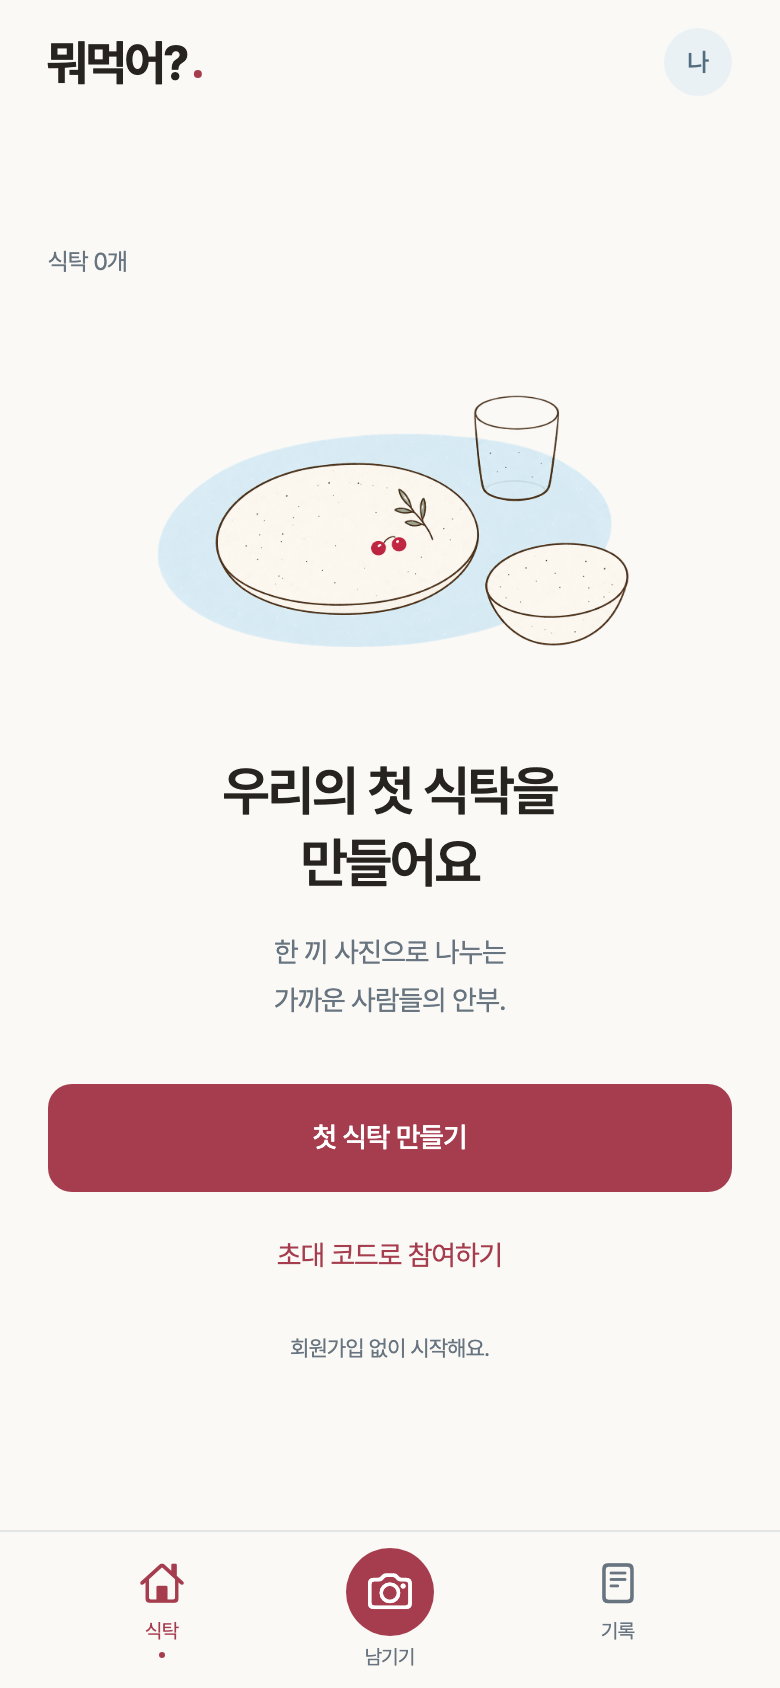
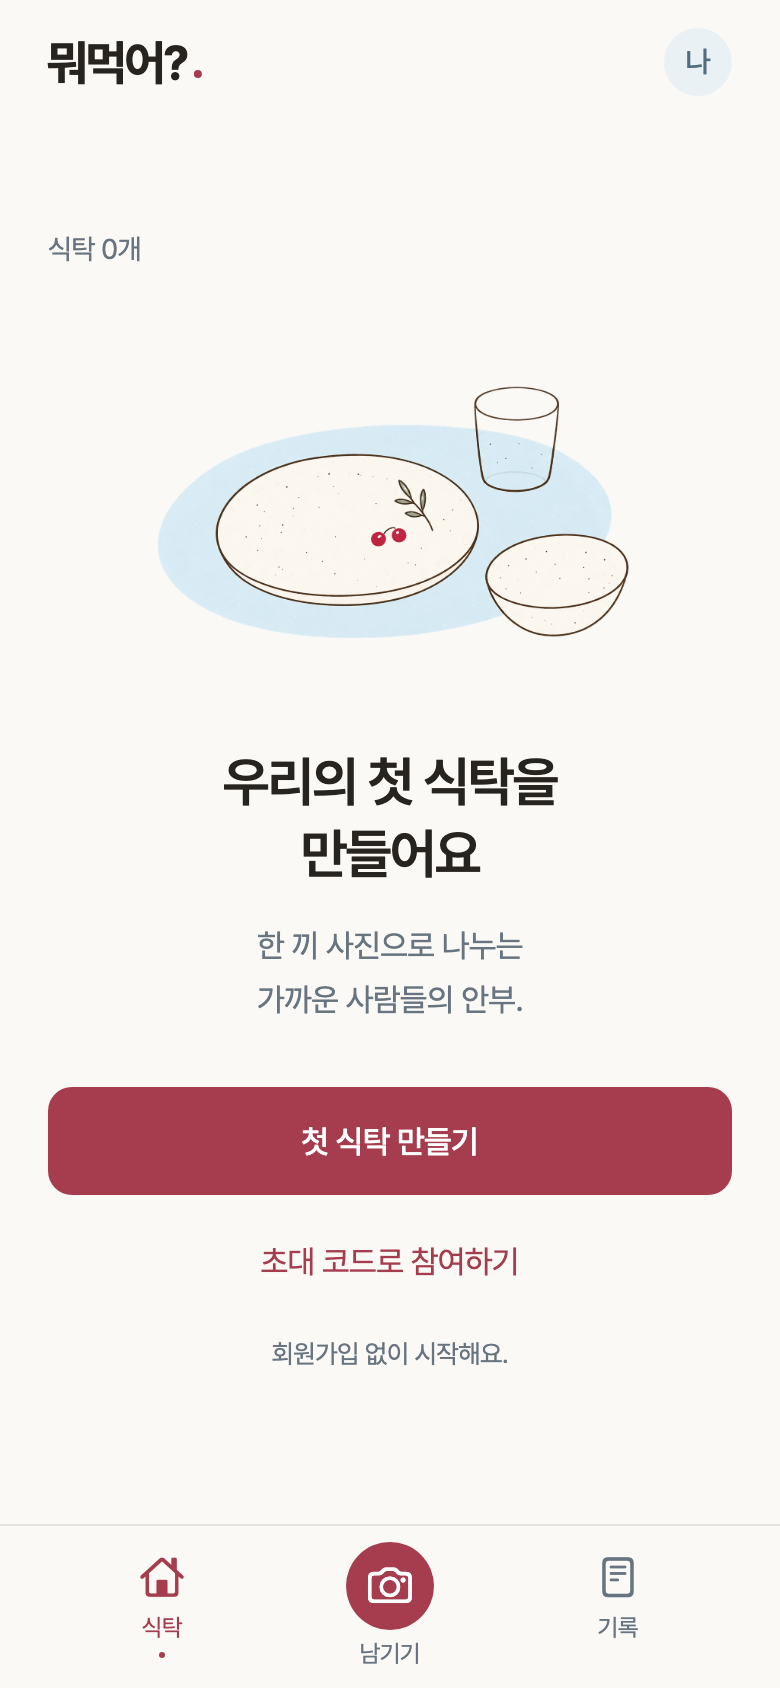
Increase text sizes and refresh Flutter previews for build 11

diff --git a/tool/render_modal_board.swift b/tool/render_modal_board.swift
@@ -28,7 +28,7 @@ for (i, entry) in entries.enumerated() {
     image.draw(in: NSRect(x:x,y:70,width:390,height:844))
     NSGraphicsContext.restoreGraphicsState()
 }
-text("CHERRY MILK  /  실제 앱 화면 렌더링 · Build 8", 45, 25, 13, .medium, color(104,117,128))
+text("CHERRY MILK  /  실제 앱 화면 렌더링 · Build 11", 45, 25, 13, .medium, color(104,117,128))
 NSGraphicsContext.restoreGraphicsState()
 let output = NSBitmapImageRep(cgImage: ctx.makeImage()!).representation(using: .png, properties: [:])!
 try output.write(to: URL(fileURLWithPath: "preview/13-modal-redesign.png"))

diff --git a/lib/main.dart b/lib/main.dart
@@ -87,7 +87,10 @@ class MwomeogeoApp extends StatelessWidget {
         surfaceTintColor: Colors.transparent,
       ),
       textButtonTheme: TextButtonThemeData(
-        style: TextButton.styleFrom(foregroundColor: cherry),
+        style: TextButton.styleFrom(
+          foregroundColor: cherry,
+          textStyle: type(14, weight: FontWeight.w500),
+        ),
       ),
       dividerTheme: const DividerThemeData(color: line, thickness: 1),
       appBarTheme: const AppBarTheme(

diff --git a/lib/design.dart b/lib/design.dart
@@ -26,7 +26,8 @@ TextStyle type(
   double spacing = -.3,
   double height = 1.5,
 }) => TextStyle(
-  fontSize: size <= 16 ? size + 1 : size,
+  fontFamily: 'Pretendard',
+  fontSize: size <= 16 ? size + 2 : size,
   color: color,
   fontWeight: weight,
   letterSpacing: spacing,

diff --git a/README.md b/README.md
@@ -34,7 +34,7 @@ Xcode에서 Runner 타깃 → Signing & Capabilities → Team을 본인 Apple De
 cd ~/Documents/mwomeogeo
 git pull --ff-only
 flutter pub get
-flutter build ipa --build-number=10
+flutter build ipa --build-number=11
 open build/ios/archive/Runner.xcarchive
 ```
 
@@ -84,7 +84,7 @@ python3 tool/configure_ios_firebase.py /파일경로/GoogleService-Info.plist
 
 빌드 10은 끼니 옆 종 버튼으로 같은 식탁에서 알림을 켠 상대에게 밥 안부를 보냅니다. Apple production 푸시 키와 무료 Workers 서버를 연결했고 앱에 운영 주소를 기본 설정했습니다. **내 정보 → 식사 알림 받기**를 켜야 받을 수 있습니다. 새 iPhone 빌드를 설치한 뒤 두 기기에서 실제 수신을 확인해야 합니다. 서버 검증과 확인 절차는 [server/nudges/README.md](server/nudges/README.md)에 있습니다.
 
-빌드 9는 본문·버튼·댓글·작은 안내 글씨를 1pt씩 키웁니다. 16pt 이하의 공통 글꼴 크기에만 적용하고 제목 크기는 유지합니다.
+빌드 11은 본문·버튼·댓글·작은 안내 글씨를 빌드 10보다 1pt 더 키웁니다. 16pt 이하의 공통 글꼴 크기에 총 2pt를 더하며 제목 크기는 유지합니다. 본문·버튼은 16pt, 설명은 14~15pt, 하단 메뉴는 12pt입니다. 별도 크기를 지정하지 않은 텍스트 버튼도 16pt로 통일합니다. 같은 크기를 적용한 실제 Flutter 화면은 `preview/`에 있습니다.
 
 빌드 8은 앱이 직접 표시하는 기록 메뉴, 삭제 확인, 이름 변경, 사진 선택, 식탁/공유 대상 선택과 모든 하단 시트를 공통 디자인으로 통일합니다. 크림색 표면·얇은 테두리·체리색 액션을 사용하며 Material 기본 분홍색 틴트를 제거합니다. 카메라/사진 권한 요청과 시스템 공유창은 운영체제의 기본 화면입니다. 실제 코드로 렌더링한 목업은 `preview/13-modal-redesign.png`에 있습니다.
 
@@ -117,7 +117,7 @@ python3 tool/configure_ios_firebase.py /파일경로/GoogleService-Info.plist
 - tool/verify.dart에서 사진 분리 보관, 재시작 복원, 교차 식탁 표시, 댓글·반응, 날짜 필터, 삭제 및 주요 화면 렌더링 검증
 - test/shared_photo_test.dart에서 고해상도 사진 압축·크기 상한·비율 보존·잘못된 사진 입력을 검사
 - tool/rules/firestore.test.cjs에서 실제 Firestore 에뮬레이터로 58개 권한·공유 검사를 통과했습니다. 초대 없는 접근, 멤버 위조, 사진 크기 초과, 타인 삭제, 삭제 중 댓글 추가를 거부하고 정상 생성·초대·중복 참여·사진 공유·작성자 삭제·20명 제한을 확인합니다. 운영 서버에 테스트 계정이나 데이터를 만들지 않습니다.
-- Flutter 테스트 18개 통과. 알림·선택 화면에서 삭제 취소/확인, 이름 공백 검증, 작은 화면과 키보드/큰 글자 조합도 검사합니다. 추가 테스트는 Blob·바이트 배열·목록을 독립 이미지 버퍼로 읽고 Flutter 이미지 디코더에서 표시 가능한지 검사합니다. 네이티브 메시지 채널을 모의한 화면 테스트로 사진 요청 실패 후 재시도하여 정상 표시되는지 검사합니다.
+- 빌드 11에서 Flutter 테스트 19개 통과. 알림·선택 화면에서 삭제 취소/확인, 이름 공백 검증, 작은 화면과 키보드/큰 글자 조합도 검사합니다. 추가 테스트는 Blob·바이트 배열·목록을 독립 이미지 버퍼로 읽고 Flutter 이미지 디코더에서 표시 가능한지 검사합니다. 네이티브 메시지 채널을 모의한 화면 테스트로 사진 요청 실패 후 재시도하여 정상 표시되는지 검사합니다.
 - 실제 iPhone 두 기기 사이의 공유 확인은 빌드 7 설치 후 필요합니다.
 - **iOS 네이티브 빌드·설치는 미검증**: 이 작업 환경은 Xcode 캐시 쓰기와 CoreSimulator 접근을 제한합니다.
 - Flutter 단위·화면 테스트와 별도 Flutter 엔진 검증기를 사용했습니다.
